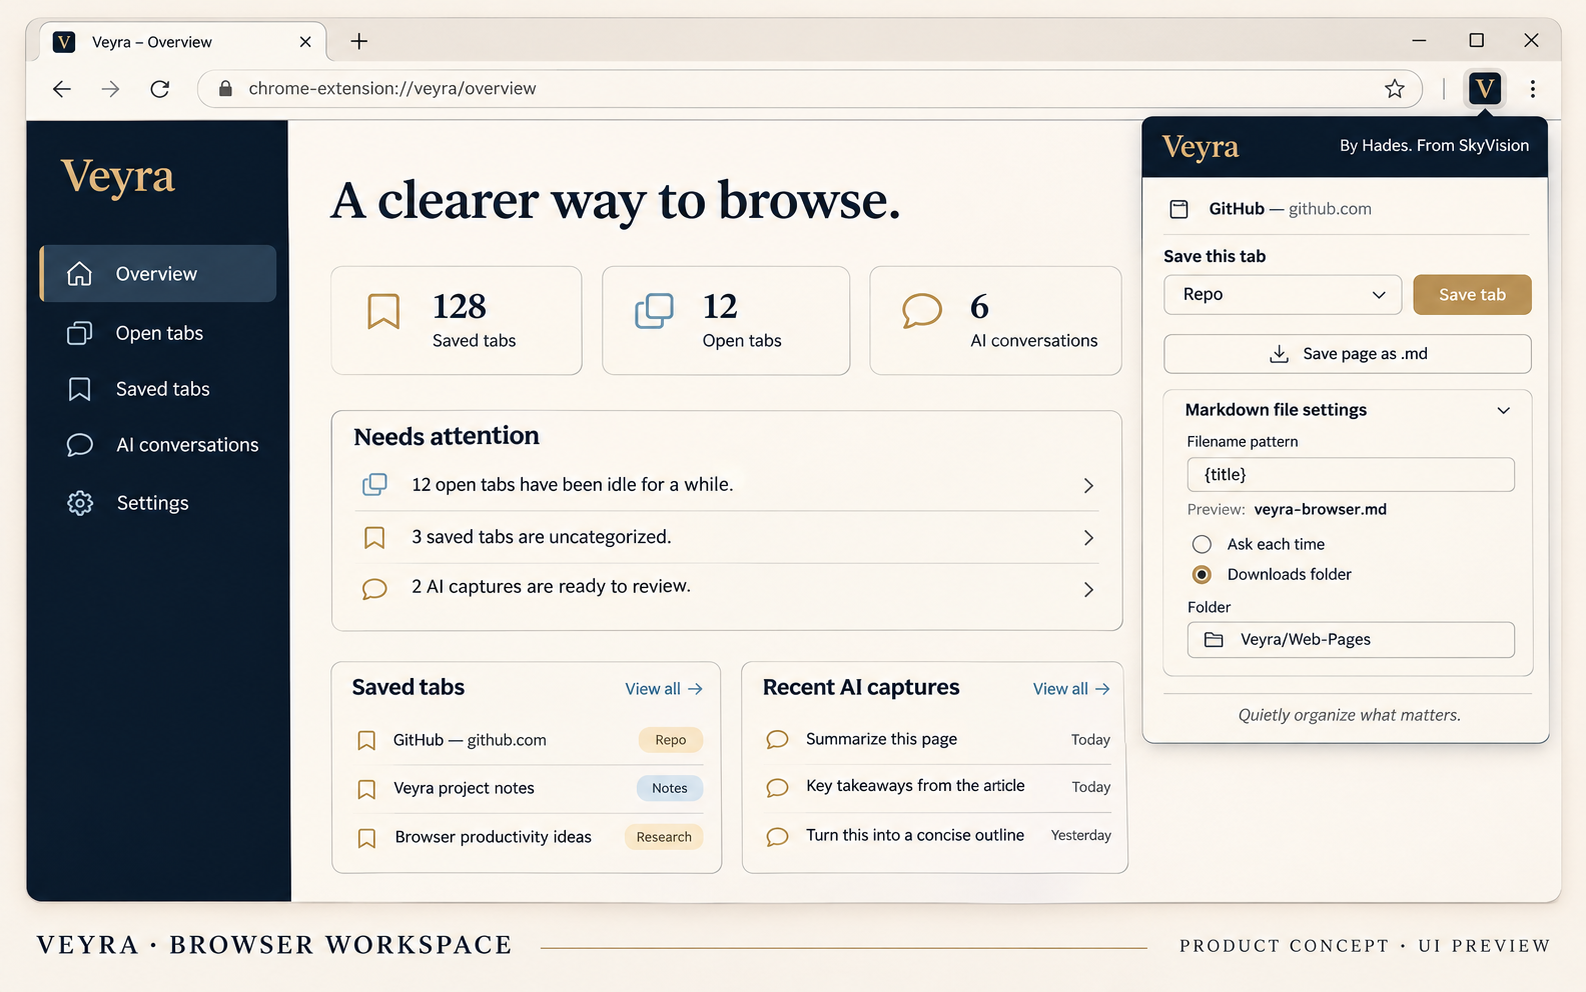
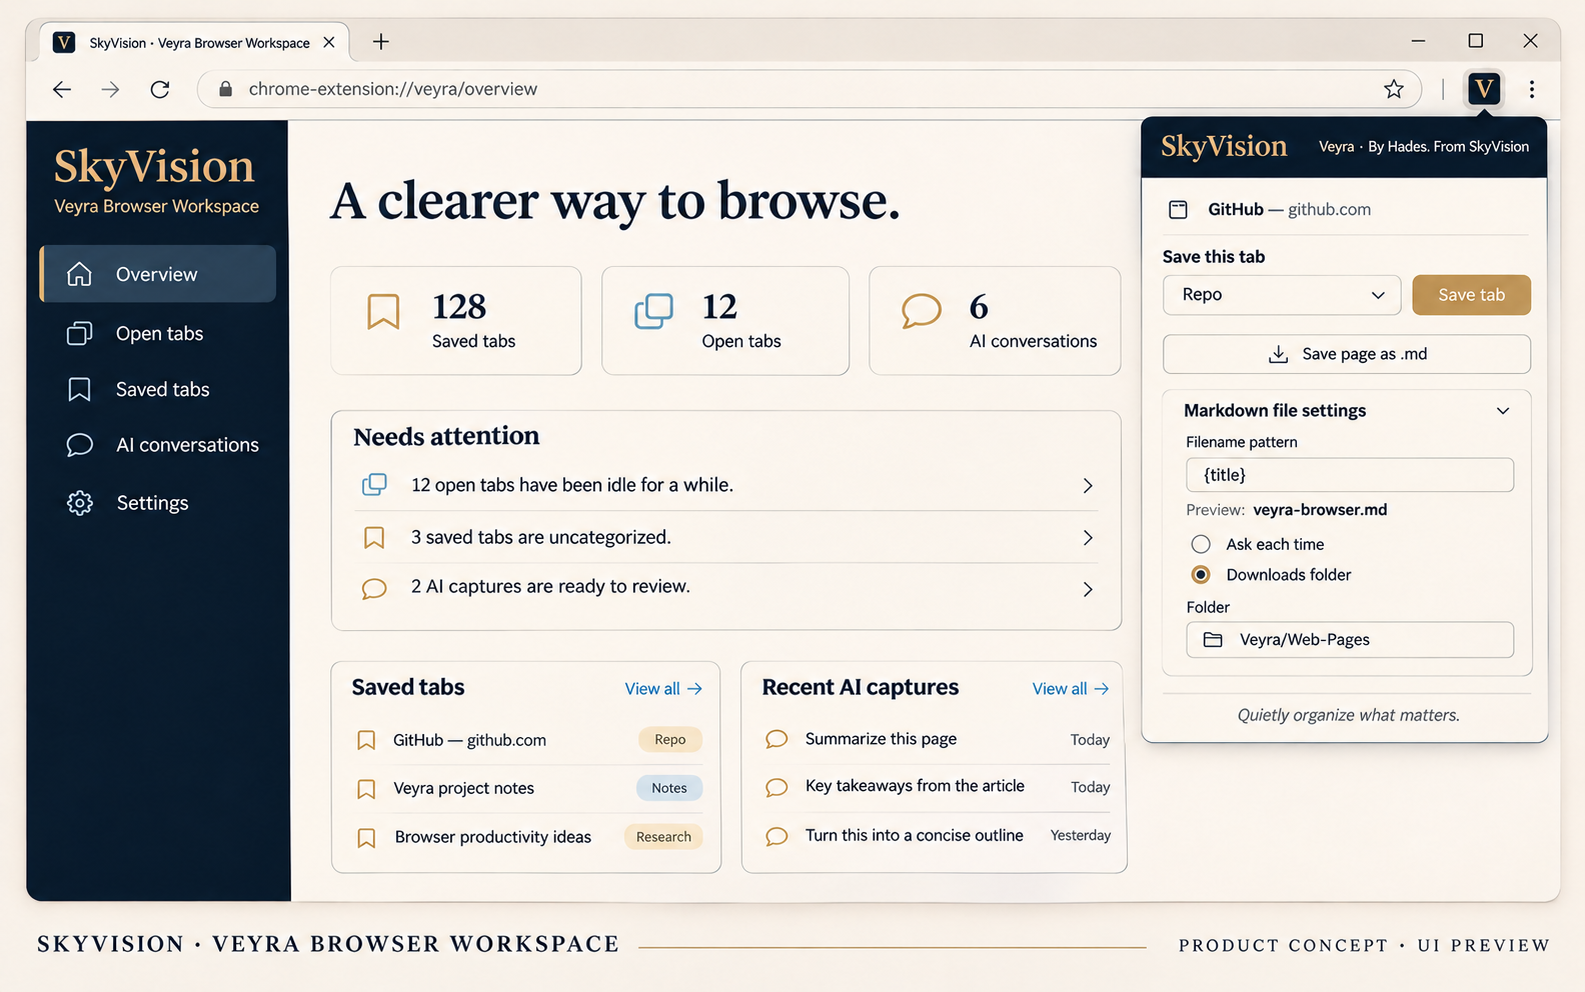
feat: brand Veyra as SkyVision workspace

diff --git a/src/ui/app.js b/src/ui/app.js
@@ -13,8 +13,8 @@ const words={
 };
 let visibleChatCount=120;
 let state={settings:{language:'en',theme:'system',capture:{},rtlSites:{}},captureHealth:{},tabs:[],bookmarkTree:[],bookmarks:[],chats:[],clips:[],view:'overview',search:'',review:[],activeChat:null,history:[],savedLibrary:{categories:[],total:0,sessions:0},savedFilter:'',savedSort:'newest',chatSearch:'',chatSearchResults:null,chatSort:'newest',chatGroup:'model-time',bookmarkSearch:'',bookmarkSort:'title'};
-Object.assign(words.en,{chatSearchPlaceholder:'Search saved conversations and messages…',bookmarkSearchPlaceholder:'Search bookmarks by title, folder or site…',groupBy:'Group by',groupModelTime:'Model, then time',groupTimeModel:'Time, then model',groupModel:'Model',searchingChats:'Searching saved messages…',noChatMatches:'No saved conversations match this search.',noBookmarkMatches:'No bookmarks match this search.',bookmarkUnfiled:'Other bookmarks',timeToday:'Today',timeYesterday:'Yesterday',timeWeek:'This week',timeOlder:'Earlier'});
-Object.assign(words.fa,{chatSearchPlaceholder:'جستوجو در گفتگوها و پیامهای ذخیرهشده…',bookmarkSearchPlaceholder:'جستوجوی عنوان، پوشه یا وبسایت…',groupBy:'گروهبندی',groupModelTime:'مدل، سپس زمان',groupTimeModel:'زمان، سپس مدل',groupModel:'مدل',searchingChats:'در حال جستوجو در پیامهای ذخیرهشده…',noChatMatches:'گفتگویی با این عبارت پیدا نشد.',noBookmarkMatches:'نشانکی با این عبارت پیدا نشد.',bookmarkUnfiled:'سایر نشانکها',timeToday:'امروز',timeYesterday:'دیروز',timeWeek:'این هفته',timeOlder:'قدیمیتر'});
+Object.assign(words.en,{brandSubtitle:'Veyra · Browser workspace',chatSearchPlaceholder:'Search saved conversations and messages…',bookmarkSearchPlaceholder:'Search bookmarks by title, folder or site…',groupBy:'Group by',groupModelTime:'Model, then time',groupTimeModel:'Time, then model',groupModel:'Model',searchingChats:'Searching saved messages…',noChatMatches:'No saved conversations match this search.',noBookmarkMatches:'No bookmarks match this search.',bookmarkUnfiled:'Other bookmarks',timeToday:'Today',timeYesterday:'Yesterday',timeWeek:'This week',timeOlder:'Earlier'});
+Object.assign(words.fa,{brandSubtitle:'Veyra · فضای کاری مرورگر SkyVision',chatSearchPlaceholder:'جستوجو در گفتگوها و پیامهای ذخیرهشده…',bookmarkSearchPlaceholder:'جستوجوی عنوان، پوشه یا وبسایت…',groupBy:'گروهبندی',groupModelTime:'مدل، سپس زمان',groupTimeModel:'زمان، سپس مدل',groupModel:'مدل',searchingChats:'در حال جستوجو در پیامهای ذخیرهشده…',noChatMatches:'گفتگویی با این عبارت پیدا نشد.',noBookmarkMatches:'نشانکی با این عبارت پیدا نشد.',bookmarkUnfiled:'سایر نشانکها',timeToday:'امروز',timeYesterday:'دیروز',timeWeek:'این هفته',timeOlder:'قدیمیتر'});
 const t=k=>words[state.settings.language]?.[k]||words.en[k]||k;
 const fmt=(key,vars={})=>t(key).replace(/\{(\w+)\}/g,(_,k)=>String(vars[k]??''));
 let selectedFolderName='',folderPermission='missing',folderSyncBusy=false;

diff --git a/src/ui/popup.html b/src/ui/popup.html
@@ -5,7 +5,7 @@
 <meta name="viewport" content="width=device-width,initial-scale=1">
 <meta name="color-scheme" content="light dark">
 <meta name="theme-color" content="#fbf7f1">
-<title>Veyra</title>
+<title>SkyVision · Veyra</title>
 <style>
 :root{color-scheme:light;--bg:#fbf7f1;--surface:#fff;--subtle:#f2ece4;--ink:#1f2d3a;--muted:#586472;--line:#dcd6cc;--accent:#a27445;--accent-ink:#fff;--focus:#95622f;--shadow:0 12px 32px #1f2d3a0b}
 :root[data-theme="dark"]{color-scheme:dark;--bg:#0b1828;--surface:#14283a;--subtle:#1a3346;--ink:#f7e9d8;--muted:#bac7d1;--line:#385162;--accent:#d8b383;--accent-ink:#0b1828;--focus:#e6c99b;--shadow:none}
@@ -15,7 +15,7 @@
 <script type="module" src="popup.js"></script>
 </head>
 <body>
-<header><div class="brand"><div class="mark" aria-hidden="true">◒</div><div><div class="brand-name">Veyra</div><div class="byline">By Hades. From SkyVision</div></div></div><button class="icon-button" id="themeToggle" aria-label="Switch theme" title="Switch theme">◐</button></header>
+<header><div class="brand"><div class="mark" aria-hidden="true">◒</div><div><div class="brand-name">SkyVision</div><div class="byline">Veyra · By Hades. From SkyVision</div></div></div><button class="icon-button" id="themeToggle" aria-label="Switch theme" title="Switch theme">◐</button></header>
 <section class="page" aria-label="Active page"><div class="page-title" id="pageTitle">Current page</div><div class="page-domain" id="pageDomain"></div></section>
 <section aria-label="Save current tab"><div class="section-label" id="saveHeading">Save this tab</div><div class="row"><div class="field"><label id="categoryLabel" for="category">Category</label><select id="category"></select></div><button class="button" id="saveTab">Save tab</button></div></section>
 <div class="save-grid"><button class="button secondary" id="open"><span id="openLabel">Open workspace</span></button><button class="button secondary" id="saveMarkdown">Save page as .md</button></div>

diff --git a/src/ui/newtab.html b/src/ui/newtab.html
@@ -5,14 +5,14 @@
   <meta name="viewport" content="width=device-width, initial-scale=1">
   <meta name="color-scheme" content="light dark">
   <meta name="theme-color" content="#f7f8fa">
-  <title>Veyra — Browser Workspace</title>
+  <title>SkyVision · Veyra Browser Workspace</title>
   <link rel="stylesheet" href="style.css">
   <script src="app.js" type="module"></script>
 </head>
 <body>
   <div class="shell">
     <aside class="sidebar" aria-label="Navigation">
-      <div class="brand"><div class="mark" aria-hidden="true"><span></span><span></span><span></span></div><div><strong>veyra<span class="brand-dot">.</span></strong><small data-i18n="brandSubtitle">Browser workspace</small></div></div>
+      <div class="brand"><div class="mark" aria-hidden="true"><span></span><span></span><span></span></div><div><strong>SkyVision<span class="brand-dot">·</span></strong><small data-i18n="brandSubtitle">Veyra · Browser workspace</small></div></div>
       <span class="menu-label" data-i18n="workspace">WORKSPACE</span>
       <nav class="nav" id="nav">
         <button class="nav-item active" data-view="overview"><span class="nav-icon">◫</span><span data-i18n="overview">Overview</span></button>

diff --git a/scripts/package.py b/scripts/package.py
@@ -9,7 +9,7 @@ root = Path(__file__).resolve().parents[1]
 version = json.loads((root / 'manifest.json').read_text(encoding='utf-8'))['version']
 output = root / 'dist'
 output.mkdir(exist_ok=True)
-filename = f'veyra-v{version}-chrome.zip'
+filename = f'skyvision-veyra-v{version}-chrome.zip'
 files = sorted([root / 'manifest.json'] + [p for p in (root / 'src').rglob('*') if p.is_file() and not p.name.startswith('.')] + [root / f'assets/icon{size}.png' for size in (16, 48, 128)])
 required = ['manifest.json', 'src/ui/newtab.html', 'src/ui/popup.html', 'src/ui/appearance.js', 'assets/icon16.png', 'assets/icon48.png', 'assets/icon128.png']
 for required_name in required:

diff --git a/README.fa.md b/README.fa.md
@@ -1,16 +1,16 @@
-# ویرا (Veyra) — فضای کاری یکپارچه مرورگر
+# اسکایویژن · ویرا (SkyVision · Veyra) — فضای کاری مرورگر
 
-**ویرا (Veyra)** فضای کاری محلی و دوزبانهٔ مرورگر Chromium است: داشبورد تب جدید برای مدیریت تبها و دادههای خودتان، همراه با popup بازطراحیشده برای ذخیرهٔ سریع تب و صفحه.
+**SkyVision Veyra** فضای کاری محلی و دوزبانهٔ مرورگر Chromium از Hades برای SkyVision است. نام محصول Veyra است؛ هویت اصلی در افزونه، SkyVision نمایش داده میشود.
 
-![پیشنمایش محصول Veyra](assets/product-preview.png)
+![پیشنمایش محصول SkyVision Veyra](assets/product-preview.png)
 
 *تصویر معرفی مفهومی بر پایهٔ رابط فعلی؛ دادهها نمونهاند و تصویر، اسکرینشات آزمون زندهٔ مرورگر نیست.*
 
-**وضعیت:** کد افزونه و بستهٔ محلی نسخهٔ ۰.۱.۱۰ موجود است. تستهای خودکار اجرا میشوند؛ آزمون کامل مرورگر زنده و انتشار در Chrome Web Store هنوز تأیید نشده است.
+**وضعیت:** کد افزونه و بستهٔ محلی نسخهٔ ۰.۱.۱۲ موجود است. تستهای خودکار اجرا میشوند؛ آزمون کامل مرورگر زنده و انتشار در Chrome Web Store هنوز تأیید نشده است.
 
 ## نصب
 
-1. فایل [`veyra-v0.1.11-chrome.zip`](dist/veyra-v0.1.11-chrome.zip) را از حالت فشرده خارج کنید، یا پوشهٔ ریپو را برای اجرای نسخهٔ توسعه انتخاب کنید.
+1. فایل [`skyvision-veyra-v0.1.12-chrome.zip`](dist/skyvision-veyra-v0.1.12-chrome.zip) را از حالت فشرده خارج کنید، یا پوشهٔ ریپو را برای اجرای نسخهٔ توسعه انتخاب کنید.
 2. در کروم به `chrome://extensions` بروید و **Developer mode** را روشن کنید.
 3. **Load unpacked** را انتخاب و پوشهای که `manifest.json` در آن است انتخاب کنید.
 4. تب جدید باز کنید تا داشبورد ویرا را ببینید.
@@ -111,6 +111,12 @@
 popup نوار ابزار اکنون تب باز را در دستهٔ انتخابی کتابخانهٔ تبهای ذخیرهشده میگذارد و صفحهٔ وب را به Markdown صادر میکند. الگوی نام فایل از `{title}`، `{domain}` و `{date}` پشتیبانی میکند؛ محل ذخیره را میتوان در هر بار انتخاب کرد یا زیرپوشهای در Downloads تعیین کرد. popup از رنگهای پیشنهادی SkyVision و زبان/پوستهٔ افزونه پیروی میکند. این نسخه اعلان پایان کار AI، ارسال اختیاری webhook امن و بررسی نسخهٔ GitHub را هم دارد؛ بررسی نسخه، فایل افزونه را خودکار نصب نمیکند.
 
 [دریافت بستهٔ نصب ۰.۱.۱۰](dist/veyra-v0.1.10-chrome.zip) · [SHA-256](dist/SHA256SUMS.txt) · [شرح قابلیتها](docs/UPDATES_AND_PAGE_EXPORT.md)
+
+## نسخهٔ ۰.۱.۱۲ — هویت برند SkyVision
+
+نام SkyVision حالا برند اصلی افزونه در نام نصبشده در Chrome، popup نوار ابزار و داشبورد است؛ Veyra بهعنوان نام فضای کاری و انتساب Hades حفظ شده است.
+
+[دریافت بستهٔ نصب ۰.۱.۱۲](dist/skyvision-veyra-v0.1.12-chrome.zip) · [SHA-256](dist/SHA256SUMS.txt)
 
 ## نسخهٔ ۰.۱.۱۱ — کتابخانههای مرتب و قابل جستوجو
 

diff --git a/README.md b/README.md
@@ -1,8 +1,8 @@
-# Veyra — Your browser, in order.
+# SkyVision · Veyra — Your browser, in order.
 
-**Veyra** is a local-first, bilingual (English/Persian) Chromium Manifest V3 workspace. Its New Tab dashboard organizes tabs, bookmarks, saved links and explicitly enabled AI chat archives; the redesigned toolbar popup provides categorized quick-save and configurable full-page Markdown export, using a restrained SkyVision-inspired palette.
+**SkyVision Veyra** is Hades's local-first, bilingual (English/Persian) Chromium browser workspace from SkyVision. Its New Tab dashboard organizes tabs, bookmarks, saved links and explicitly enabled AI chat archives; the redesigned toolbar popup provides categorized quick-save and configurable full-page Markdown export.
 
-![Veyra product preview](assets/product-preview.png)
+![SkyVision Veyra product preview](assets/product-preview.png)
 
 *Product concept based on the current interface. Example content is illustrative; this is not a live-browser test screenshot.*
 
@@ -12,7 +12,7 @@
 
 ## Quick install (Chrome/Edge/Brave)
 
-1. Download or unzip [`veyra-v0.1.11-chrome.zip`](dist/veyra-v0.1.11-chrome.zip) (or use this repository's root for development).
+1. Download or unzip [`skyvision-veyra-v0.1.12-chrome.zip`](dist/skyvision-veyra-v0.1.12-chrome.zip) (or use this repository's root for development).
 2. Open `chrome://extensions` and turn on **Developer mode**.
 3. Select **Load unpacked**, then select the folder containing `manifest.json`.
 4. Open a **new tab**. The Veyra dashboard replaces Chrome's new-tab page.
@@ -73,6 +73,12 @@ MIT, with retained notices for the adapted components. [LICENSE](LICENSE), [THIR
 The toolbar popup now saves the active tab into the Veyra Saved Tabs category chosen in the popup and offers a full-page Markdown export. Configure the filename with `{title}`, `{domain}` and `{date}`, then choose a save dialog or a Downloads subfolder. The popup follows the proposed SkyVision palette and supports the extension's English/Persian and theme preferences. This release also contains AI task-finished notifications, optional HTTPS webhook delivery and a GitHub release version check; the version check does not install extension code.
 
 [Install v0.1.10](dist/veyra-v0.1.10-chrome.zip) · [SHA-256](dist/SHA256SUMS.txt) · [Feature details](docs/UPDATES_AND_PAGE_EXPORT.md)
+
+## v0.1.12 — SkyVision product identity
+
+SkyVision is now the primary brand in the Chrome extension name, toolbar popup and dashboard, with Veyra retained as the workspace product name and Hades attribution.
+
+[Install v0.1.12](dist/skyvision-veyra-v0.1.12-chrome.zip) · [SHA-256](dist/SHA256SUMS.txt)
 
 ## v0.1.11 — Searchable, organized libraries
 

diff --git a/docs/PRODUCT_CHARTER.md b/docs/PRODUCT_CHARTER.md
@@ -17,7 +17,7 @@
 
 This charter is a **guardrail**, not an excuse to block engineering improvement. Any incompatible proposal must come with an ADR specifying what changes, why it is superior, and how users can opt out or roll back.
 
-## Current product surface (v0.1.11)
+## Current product surface (v0.1.12)
 
 - **Dashboard:** new-tab workspace for open tabs, saved tabs, bookmarks, chat archive, clips, settings and local review suggestions.
 - **Toolbar popup:** contextual quick save of the active tab into the Veyra bookmark library; opt-in AI chat capture; page-to-Markdown export with configurable filename tokens and destination; language/theme controls.
@@ -26,6 +26,7 @@ This charter is a **guardrail**, not an excuse to block engineering improvement.
 - **AI archive library:** saved conversations can be searched across titles, URLs, providers and local message text; results are grouped by provider and time by default, with alternate grouping and sorting controls. Search returns bounded metadata and short excerpts.
 - **Markdown destination:** ask for a location per export or save into a validated relative subfolder beneath Chrome Downloads. The optional Downloads permission is requested from an explicit user action.
 - **Visual direction:** restrained unslop-informed UI and proposed SkyVision semantic colors. SkyVision's source repository describes its identity as unapproved and its license as unspecified; the product references published color tokens and does not bundle its artwork or logo assets.
+- **Product lockup:** SkyVision is the primary name shown in Chrome and the extension UI; Veyra remains the workspace name, credited “By Hades. From SkyVision.”
 - **Illustration:** `assets/product-preview.png` is a concept rendering of the current interface for documentation. It is not evidence of live-browser operation or production approval.
 
 See `docs/UPDATES_AND_PAGE_EXPORT.md` for behavior and limitations. Automated test success does not imply provider-site or browser end-to-end verification.

diff --git a/docs/FEATURE_CATALOG.md b/docs/FEATURE_CATALOG.md
@@ -2,13 +2,14 @@
 
 Use statuses literally: **Implemented** means source/UI exists, not verified on every live site; **Planned** means not yet shipped. Tests and release notes must not claim browser end-to-end verification without evidence.
 
-## Implemented capability catalog (v0.1.11)
+## Implemented capability catalog (v0.1.12)
 
 | Domain | Feature | Status and caveat |
 |---|---|---|
 | Workspace | New-tab replacement with dashboard, navigation, statistics and global search | Implemented |
 | Interface | English/Persian RTL language switch, Light/Dark/System theme | Implemented |
 | Interface | Branded toolbar popup with contextual page, theme and language support | Implemented; SkyVision colors are a proposed reference, not approved trademark assets |
+| Brand | SkyVision primary product identity with Veyra workspace name and Hades attribution | Implemented in v0.1.12 across Chrome name, toolbar popup, dashboard and product docs |
 | Open tabs | Browse/focus/close/bookmark tabs, domain grouping, detect duplicates | Implemented; closing requires approval |
 | Open tabs | Classify tabs into default/custom categories with editable names/colors | Implemented; tab assignment stored locally |
 | Open tabs | Sort visually by category, domain, title, recent activity or browser order | Implemented |
